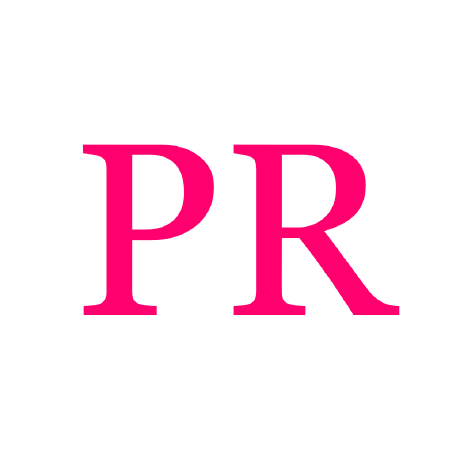
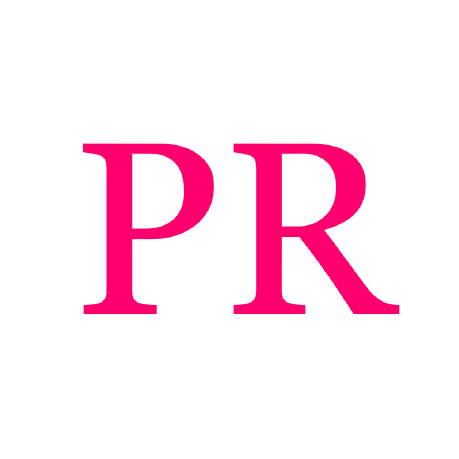
feat: display projects
Add projects to display. Trim site icon to be round.

diff --git a/src/App.svelte b/src/App.svelte
@@ -1,4 +1,65 @@
 <script lang="ts">
+    import ProjectDisplay from './ProjectDisplay.svelte'
+    import Reddit from './assets/reddit.png'
+    import Svelte from './assets/svelte.png'
 </script>
 
-<main></main>
+<main>
+    <h1>pritoranta</h1>
+    <p>
+        Professional software developer and architect. Endlessly intrigued about
+        how software can serve and delight people. I like building minimal
+        things that spark joy. Here's a little collection of fun stuff I made!
+        💝
+    </p>
+    <p class="italic">We live in a world of refinement, not invention</p>
+    <div id="project-container">
+        <ProjectDisplay
+            title="Reddit Gallery Client"
+            link="https://pritoranta.net/reddit-gallery-client/"
+            description="Svelte browser app made for browsing pictures on Reddit in a unique way. Draws a grid where some pictures are enlarged based on a semi-random chance. Meant to be used on a desktop monitor for the proper 'wow' effect. Click to see..."
+            image={Reddit}
+        />
+        <ProjectDisplay
+            title="Reddit Gallery API"
+            link="https://github.com/pritoranta/reddit-gallery-api/"
+            description="Backend service for Reddit Gallery Client. Web API written in Go, powered by the Gin framework. Fetches data from Reddit API and caches it. If subject to too frequent unique requests (across all users), Reddit API will start rate limiting it. More on GitHub..."
+            image={Reddit}
+        />
+        <ProjectDisplay
+            title="Portfolio"
+            link="https://github.com/pritoranta/portfolio/"
+            description="What you're looking at right now! Super simple Svelte browser app written in TypeScript, and compiled into HTML + CSS + JavaScript. As simple as it gets. No server components."
+            image={Svelte}
+        />
+    </div>
+</main>
+
+<style>
+    main {
+        display: flex;
+        gap: 20px;
+        flex-direction: column;
+        align-items: center;
+        padding: 1rem;
+    }
+    h1 {
+        font-size: 2.5rem;
+        margin: 0;
+    }
+    #project-container {
+        display: grid;
+        grid-template-columns: repeat(auto-fit, minmax(400px, 1fr));
+        gap: 10px;
+        width: 100%;
+    }
+    p {
+        text-align: center;
+        padding-left: 15%;
+        padding-right: 15%;
+    }
+    .italic {
+        text-shadow: 1px 1px 1px var(--color);
+        font-style: italic;
+    }
+</style>

diff --git a/src/ProjectDisplay.svelte b/src/ProjectDisplay.svelte
@@ -1,0 +1,49 @@
+<script lang="ts">
+    const props: {
+        link: string
+        title: string
+        description: string
+        image: string
+    } = $props()
+</script>
+
+<a href={props.link}
+    ><h2>{props.title}</h2>
+    <div class="content-container">
+        <img src={props.image} />
+        <p>{props.description}</p>
+    </div>
+</a>
+
+<style>
+    a {
+        display: flex;
+        flex-direction: column;
+        backdrop-filter: grayscale(50%) blur(10px);
+        border-radius: 10px;
+        border-style: outset;
+        border-color: var(--color);
+        color: var(--color);
+        text-decoration: none;
+        border-width: 0px;
+        padding: 5px;
+    }
+    a:hover {
+        padding: 0px;
+        border-width: 5px;
+    }
+    h2 {
+        margin: 10px;
+        margin-bottom: 0px;
+        font-size: 1.4rem;
+    }
+    .content-container {
+        display: flex;
+        gap: 30px;
+        padding: 20px;
+    }
+    img {
+        width: 64px;
+        object-fit: contain;
+    }
+</style>

diff --git a/src/app.css b/src/app.css
@@ -1,7 +1,19 @@
 :root {
+    --background-top: rgb(8, 0, 20);
+    --background-bottom: rgb(139, 0, 93);
+    --color: rgb(255, 255, 255);
     font-family: system-ui, Avenir, Helvetica, Arial, sans-serif;
     line-height: 1.5;
     font-weight: 400;
+
+    background-image: linear-gradient(
+        to bottom,
+        var(--background-top),
+        var(--background-bottom)
+    );
+    color: var(--color);
+    height: 100vh;
+    width: 100vw;
 
     font-synthesis: none;
     text-rendering: optimizeLegibility;
@@ -13,4 +25,12 @@ body {
     margin: 0;
     width: 100vw;
     height: 100vh;
+}
+
+@media (prefers-color-scheme: light) {
+    :root {
+        --background-top: rgb(255, 255, 255);
+        --background-bottom: rgb(255, 0, 110);
+        --color: rgb(0, 0, 0);
+    }
 }

diff --git a/index.html b/index.html
@@ -4,7 +4,7 @@
         <meta charset="UTF-8" />
         <link rel="icon" type="image/png" href="/pr.png" />
         <meta name="viewport" content="width=device-width, initial-scale=1.0" />
-        <title>Pietari Ritoranta</title>
+        <title>pritoranta</title>
     </head>
     <body>
         <div id="app"></div>
